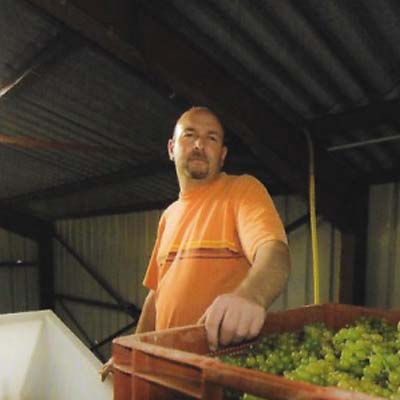
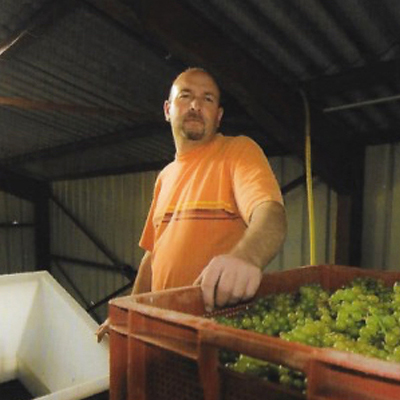
photos carrees producteur et correction redirection page accueil générale

diff --git a/FiletGarni_parent/FiletGarni_Front_Web/src/main/webapp/pageAccueilGenerale/js/jquery.vmap.js b/FiletGarni_parent/FiletGarni_Front_Web/src/main/webapp/pageAccueilGenerale/js/jquery.vmap.js
@@ -1056,7 +1056,7 @@ $(document).ready(function() {
                 enableZoom: true,
                 showTooltip: true,
                 onRegionClick: function(element, code, region) {
-                    window.location = "../pageAccueilConsommateur/pageAccueilConsommateur.jsf"
+                    window.location = "../commande/pageAccueilConsommateur/pageAccueilConsommateur.jsf"
                 }
             });
         });
